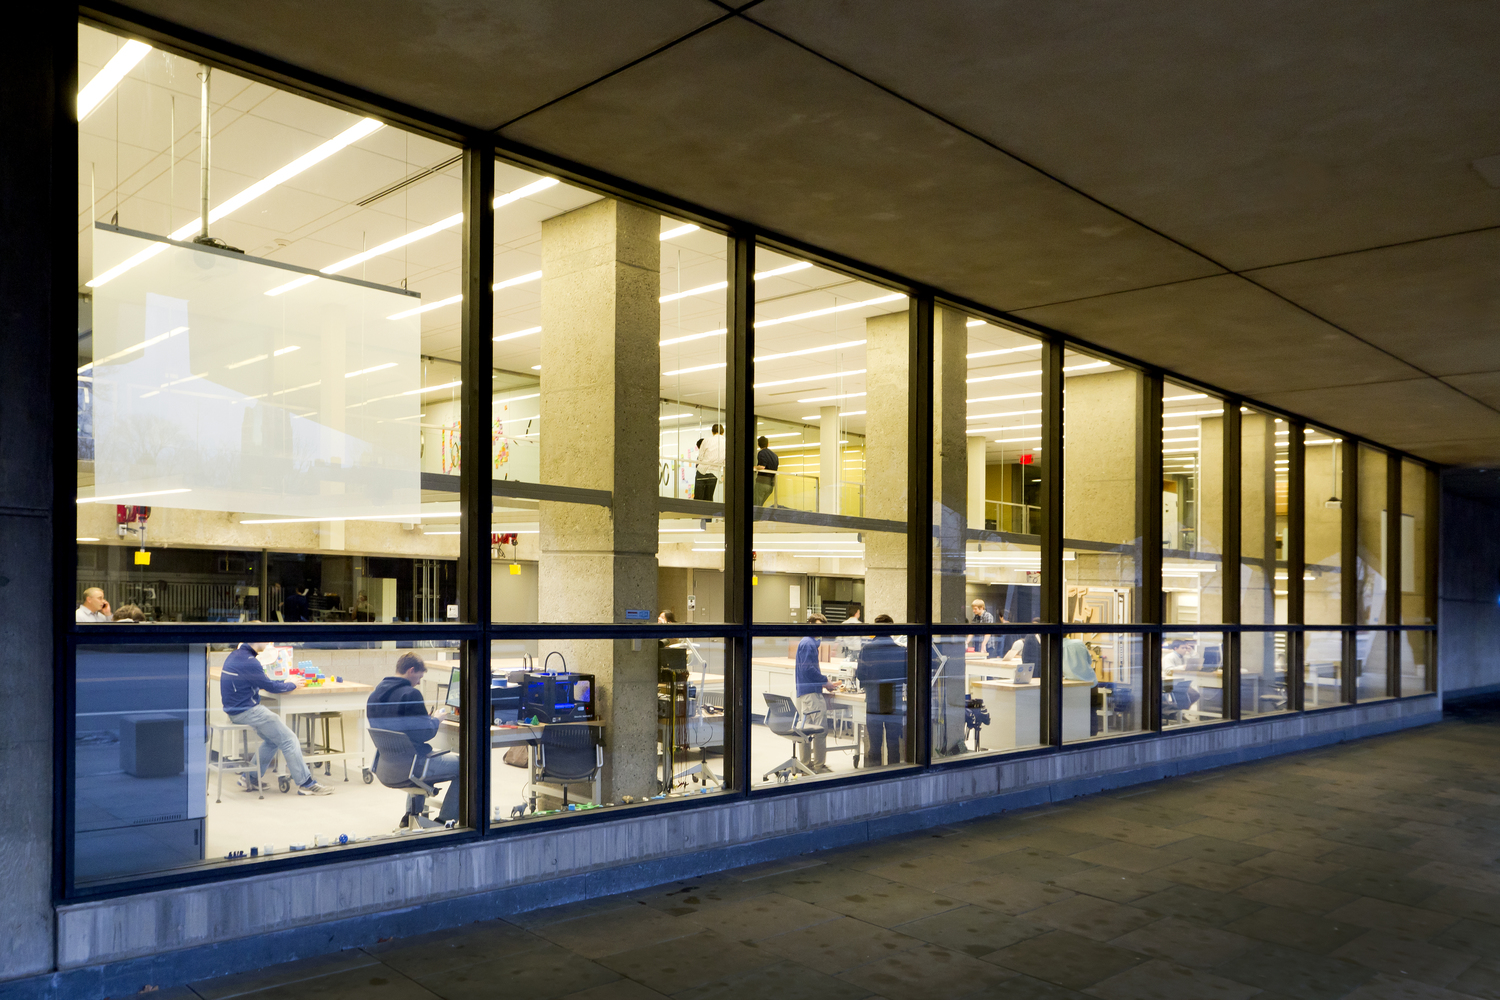
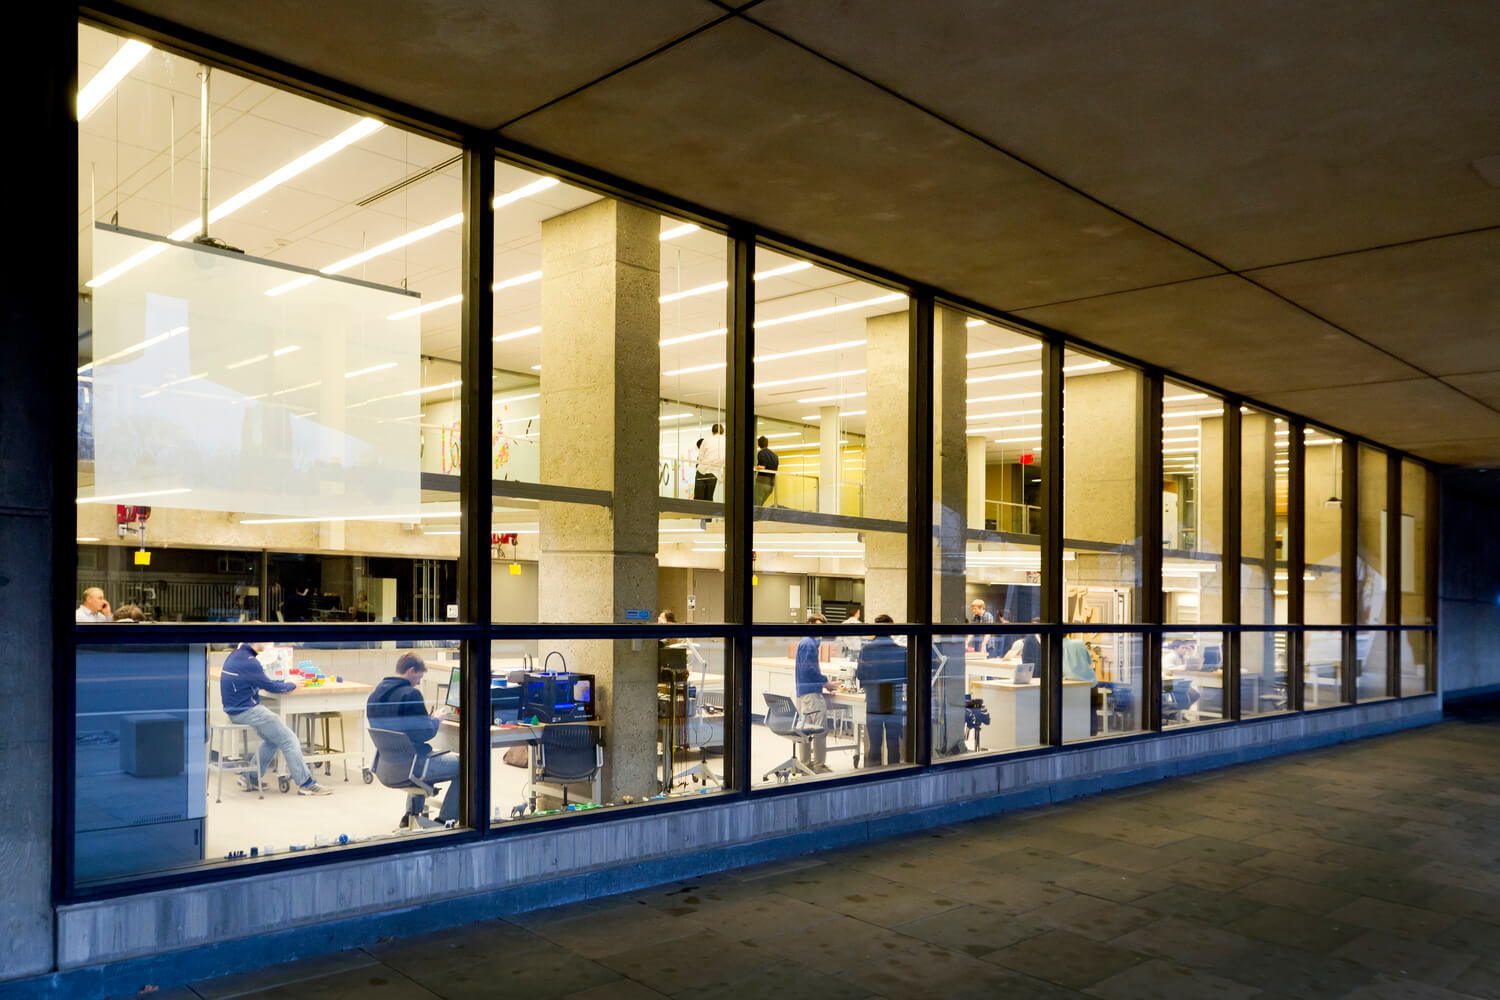
optimize images for web

diff --git a/index.html b/index.html
@@ -42,7 +42,7 @@
     <header id="intro">
       <section class="intro">
         <p>Hello, I'm a software developer based in Salt Lake City, Utah.</p>
-        <p>Until recently, I was finishing up my B.A. in <a href="https://ling.yale.edu/academics/description-and-requirements-major" target="_blank">Computational Linguistics</a> at Yale University.</p>
+        <p>Recently, I finished my B.A. in <a href="https://ling.yale.edu/academics/description-and-requirements-major" target="_blank">Computational Linguistics</a> at Yale University.</p>
         <p>Now, I'm making web development more accessible as a mentor at <a href="https://devmountain.com/" target="_blank">DevMountain.</a></p>
       </section>
 
@@ -169,7 +169,7 @@
           <article>
             <h2>Peanut Gallery</h2>
             <p>IMDb review web scraper that compiles all reviews for a movie as .html or .txt.</p>
-            <p class="project-url">Not currently hosted</p>
+            <!-- <p class="project-url">Not currently hosted</p> -->
             <!-- DESKTOP ONLY SLIDESHOWS -->
             <section class="project-slideshow">
                 <!-- SLIDESHOW HERE -->

diff --git a/sass/main.css b/sass/main.css
@@ -247,6 +247,9 @@ nav.subsection #header-nav {
   display: flex;
   justify-content: space-between;
 }
+nav.subsection section.name {
+  margin-left: 0.5em;
+}
 nav.subsection nav.nav-modal {
   position: fixed;
   top: -10px;
@@ -312,15 +315,22 @@ nav.subsection nav.nav-modal #modal-hamburger-menu {
   }
 }
 header#intro {
-  margin: 1.5em 1em 0 0.5em;
+  margin: 1em 1em 0 0.5em;
   border: 0;
   font-size: 1.5em;
   font-weight: 300;
-  height: 80vh;
+  height: 85vh;
 }
 header#intro p {
-  margin-bottom: 0.5em;
+  margin-bottom: 0.75em;
   line-height: 1.35em;
+}
+header#intro .social-links {
+  margin-top: -0.75em;
+}
+header#intro .social-links * {
+  margin-right: 0.35em;
+  margin-bottom: 0.25em;
 }
 
 @media screen and (min-width: 768px) {

diff --git a/sass/partials/sections/_header.scss b/sass/partials/sections/_header.scss
@@ -17,6 +17,9 @@ nav.subsection {
     display: flex;
     justify-content: space-between;
   }
+  section.name {
+    margin-left: 0.5em;
+  }
   nav.nav-modal {
     position: fixed;
 
@@ -92,14 +95,21 @@ nav.subsection {
   }
 }
 header#intro {
-  margin: 1.5em 1em 0 0.5em;
+  margin: 1em 1em 0 0.5em;
   border: 0;
   font-size: 1.5em;
   font-weight: 300;
-  height: 80vh;
+  height: 85vh;
   p {
-    margin-bottom: 0.5em;
+    margin-bottom: 0.75em;
     line-height: 1.35em;
+  }
+  .social-links {
+    margin-top: -0.75em;
+  }
+  .social-links * {
+    margin-right: 0.35em;
+    margin-bottom: 0.25em;
   }
 }
 
